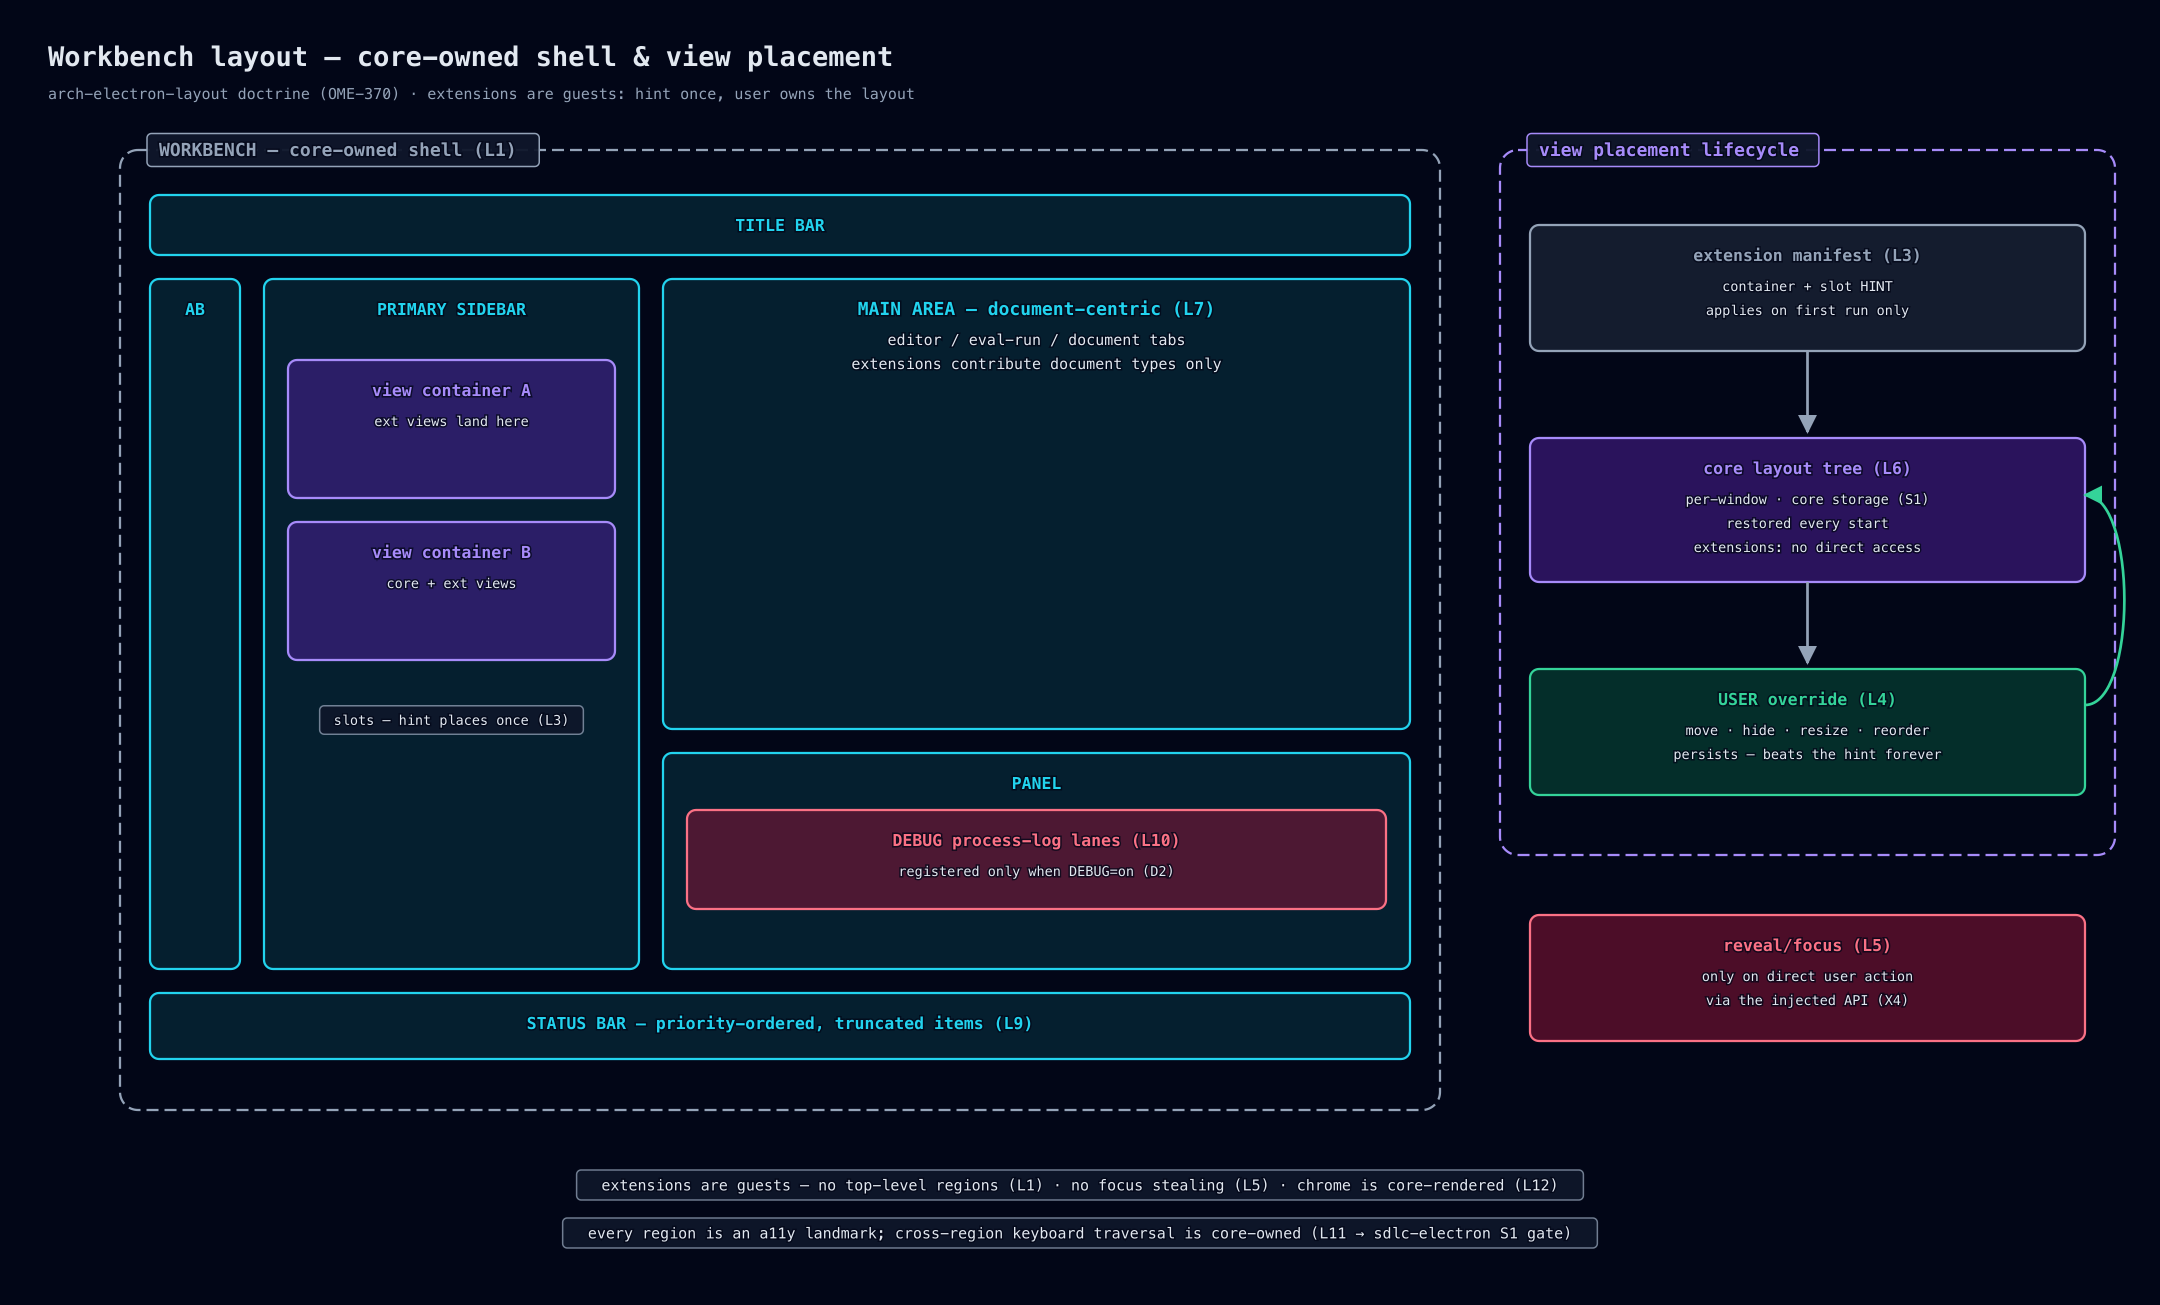
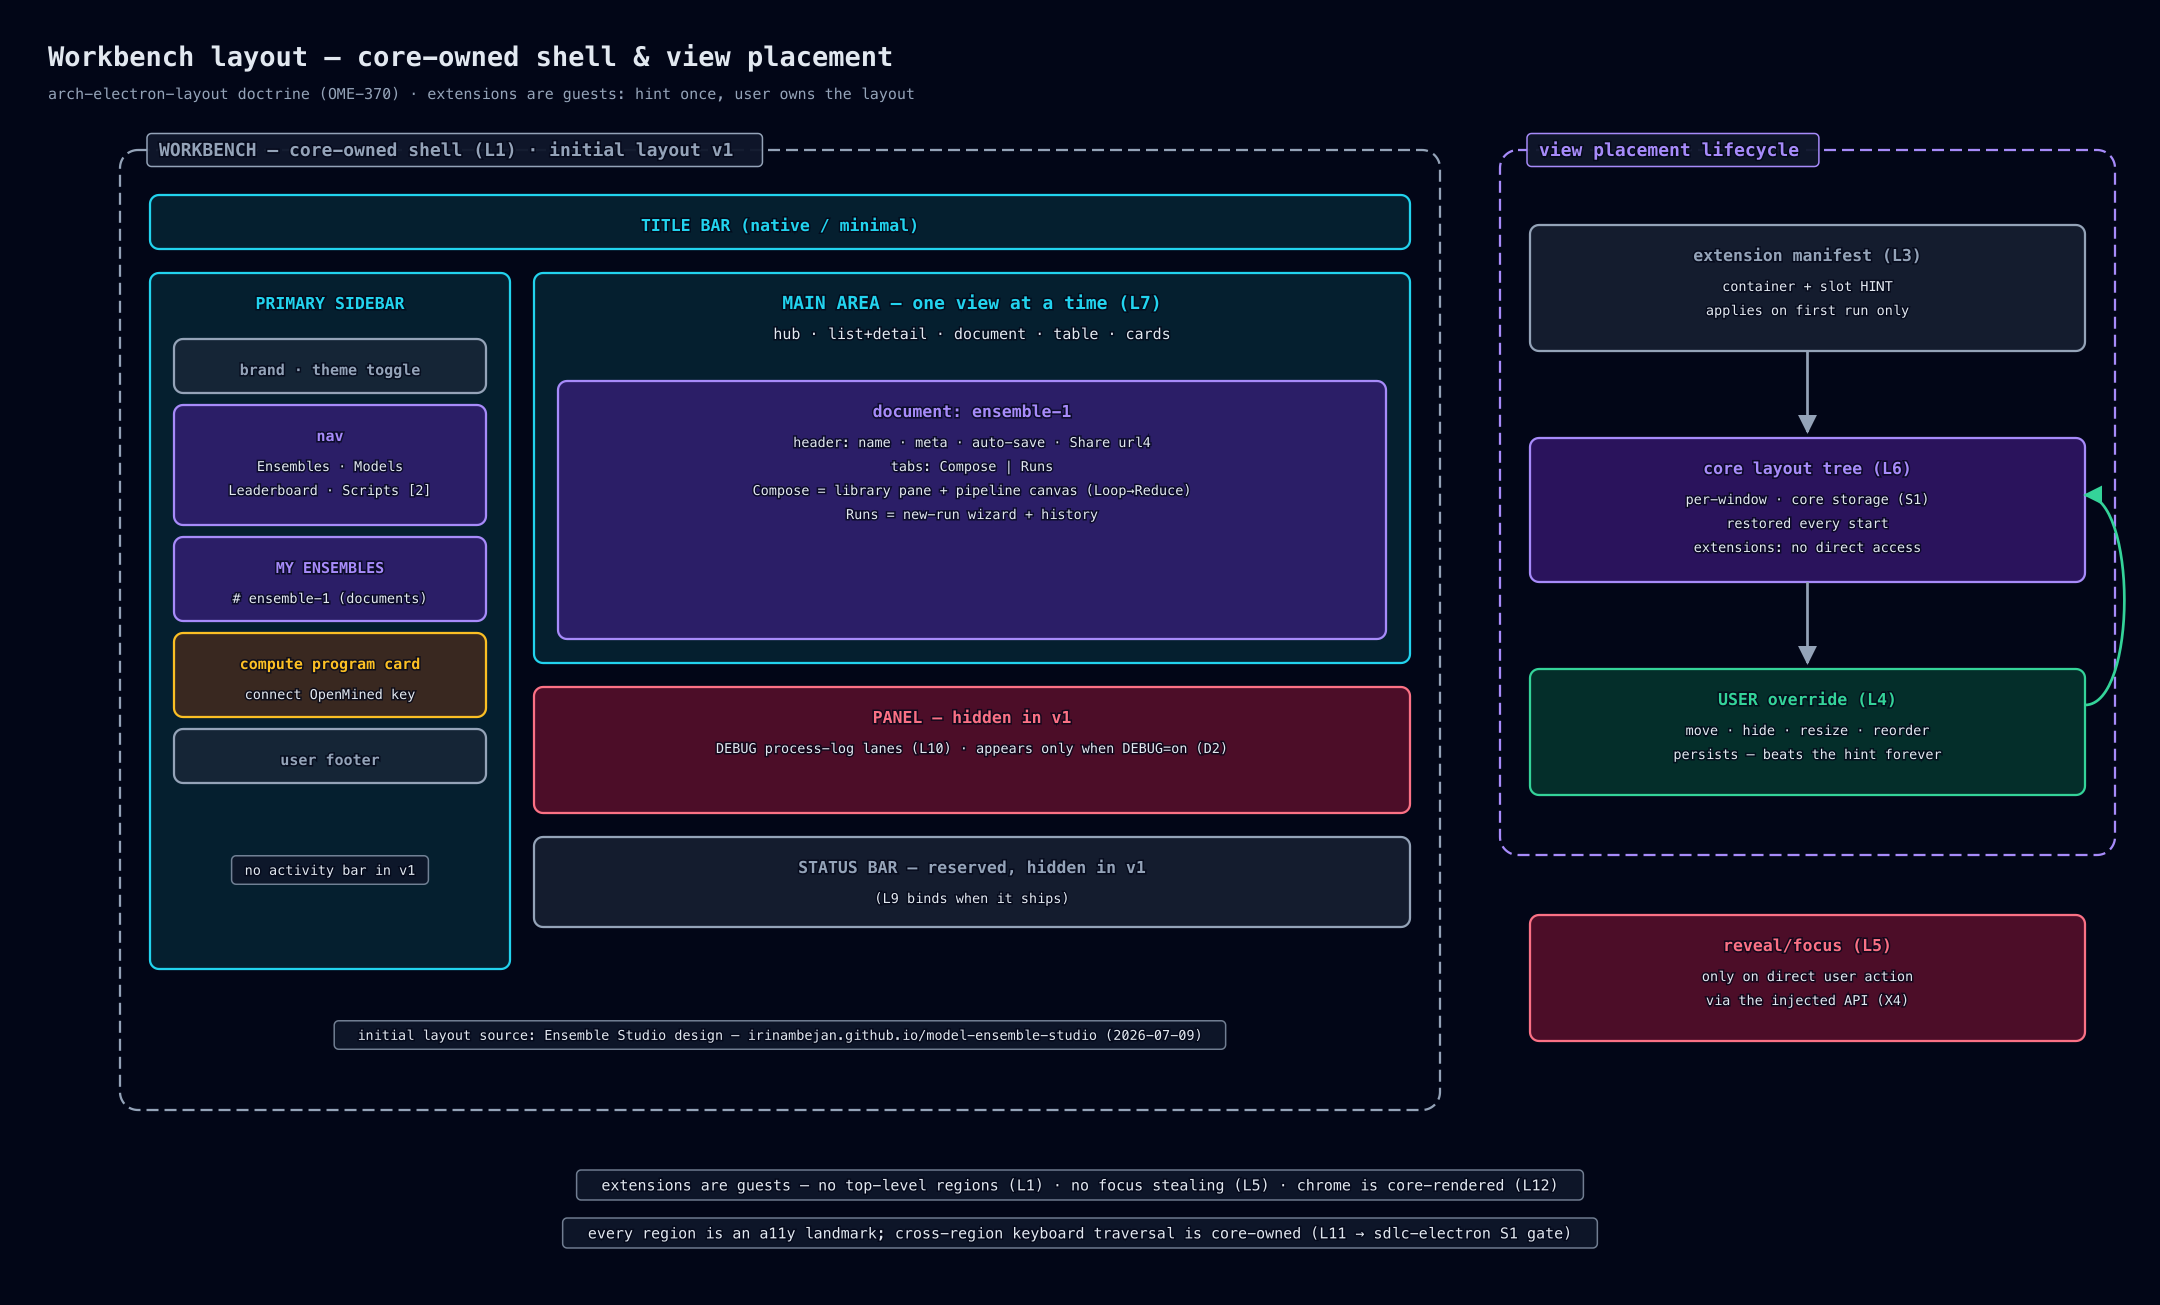
docs(repo): initial layout re-based on Ensemble Studio design
Researched irinambejan.github.io/model-ensemble-studio via Playwright:
single rich sidebar (brand/nav+badges/MY ENSEMBLES/compute card/user),
no activity bar in v1 (L1 amended, escalation path documented), five
main-area view archetypes, ensemble document = L7 document type with
internal Compose|Runs tabs, panel + status bar hidden in v1. ASCII and
SVG diagrams reworked; research screenshots in .docs (gitignored).

Refs: OME-370

Changed region(s): [[0.062, 0.1533, 0.6514, 0.8276], [0.2481, 0.092, 0.3412, 0.1226]]

diff --git a/.claude/skills/arch-electron-layout/SKILL.md b/.claude/skills/arch-electron-layout/SKILL.md
@@ -22,30 +22,62 @@ rules referenced below), `screamingface-design` owns every visual/brand decision
 structure. Build-time work runs under `sdlc-electron` (its a11y gate S1 consumes L11).
 Deviating from an invariant is a Confidence-Gate decision: STOP and ask the owner.
 
-## The shell
+## The shell — initial layout (v1)
+
+The v1 default is based on the **Ensemble Studio** design
+(https://irinambejan.github.io/model-ensemble-studio/, researched 2026-07-09; screenshots
+in `.docs/ensemble-studio-research/`):
 
 ```
 +----------------------------------------------------------------------------+
-| TITLE BAR (custom or native — one choice per app)                          |
-+----+----------------------+------------------------------------------------+
-| AB | PRIMARY SIDEBAR      | MAIN AREA — document-centric (L7)              |
-|    |  view containers     |   editors / eval runs / documents              |
-|    |  (ext views land     |                                                |
-|    |  here via hints)     +------------------------------------------------+
-|    |                      | PANEL — tool lanes (L10: DEBUG logs)           |
-+----+----------------------+------------------------------------------------+
-| STATUS BAR — bounded, priority-ordered items (L9)                          |
-+----------------------------------------------------------------------------+
+| TITLE BAR (native chrome / minimal custom)                                 |
++------------------+---------------------------------------------------------+
+| PRIMARY SIDEBAR  | MAIN AREA — one view at a time:                         |
+|  brand + theme   |  hub · list+detail · document · table · cards           |
+|  nav: Ensembles  |                                                         |
+|   Models         |  document view: header (name · meta · Share url4)       |
+|   Leaderboard    |                 + document tabs (Compose | Runs)        |
+|   Scripts [2]    +---------------------------------------------------------+
+|  MY ENSEMBLES    | PANEL — hidden; DEBUG log lanes when DEBUG=on (L10)     |
+|  compute card    +---------------------------------------------------------+
+|  user footer     | STATUS BAR — reserved, hidden in v1 (L9)                |
++------------------+---------------------------------------------------------+
 ```
 
-AB = activity bar. Rendered diagram (SVG + PNG): `docs/diagrams/electron-workbench-layout.*`.
+Rendered diagram (SVG + PNG): `docs/diagrams/electron-workbench-layout.*`.
+
+**Initial-layout facts (from the Studio design):**
+
+- **One rich sidebar, no activity bar in v1.** The sidebar carries: brand header + theme
+  toggle · primary nav (Ensembles, Models, Leaderboard, Scripts — with count badges) ·
+  a **MY ENSEMBLES** section listing the user's ensemble documents · the subsidized-compute
+  program card (key connect) · the user identity footer. If view containers multiply beyond
+  what one sidebar holds, adding an activity bar is the escalation path — an owner decision,
+  not an extension's.
+- **The main area shows one view at a time**, navigated from the sidebar. Five view
+  archetypes: **hub** (hero + top ensembles), **list+detail** (Models: provider library
+  column + detail pane), **document** (ensemble: breadcrumb, header with name/meta/auto-save/
+  Share-url4, internal tab strip **Compose | Runs**; Compose = library pane + pipeline
+  canvas Loop→Reduce; Runs = new-run wizard + history), **table page** (Leaderboard:
+  benchmark tabs + scope filter + table), **card list** (Scripts: grouped cards with inline
+  code).
+- **The ensemble document is the app's document type** (L7): one open at a time in v1,
+  reachable via MY ENSEMBLES; each document owns its internal tab strip. A multi-document
+  tab strip in the main area is a future escalation, not v1.
+- **Panel and status bar exist in the layout model but are hidden in v1**: the panel
+  appears only as the DEBUG log-view home (L10, D2-gated); the status bar is reserved
+  (L9 binds whenever it ships). The Studio design has neither — don't add visible chrome
+  the design doesn't call for.
+- Visual styling (colors, type, density, dark mode) is `screamingface-design` territory —
+  this section binds structure only.
 
 ## Invariants (L)
 
-- **L1 — The shell is core-owned.** Exactly these regions: title bar, activity bar,
-  primary sidebar, main area, panel, status bar. Extensions never add top-level regions,
-  floating/always-on-top surfaces, or windows. *One coherent layout model; window creation
-  is a privileged capability (arch-electron T3).*
+- **L1 — The shell is core-owned.** Exactly these regions: title bar, primary sidebar,
+  main area, panel, status bar (activity bar: deferred — absent in v1, see initial layout).
+  Extensions never add top-level regions, floating/always-on-top surfaces, or windows.
+  *One coherent layout model; window creation is a privileged capability (arch-electron
+  T3).*
 - **L2 — Views live in view containers; containers dock into slots.** A contributed view
   belongs to a view container (its own or a shared one); containers dock into the sidebar
   or panel. Both are declared in the manifest (arch-electron X1) — rendered with zero
@@ -61,10 +93,10 @@ AB = activity bar. Rendered diagram (SVG + PNG): `docs/diagrams/electron-workben
 - **L6 — Layout state is a core-owned tree.** Visibility, order, sizes, and dock positions
   persist per window in core storage (arch-electron S1). Extensions never read or write
   layout state directly — reveal/focus of their OWN views via the API is the whole surface.
-- **L7 — The main area is document-centric.** It hosts primary work surfaces (editors,
-  eval runs, documents) as tabs; tool/auxiliary views belong to the sidebar or panel. An
-  extension reaches the main area only by contributing a document/editor type — never by
-  docking a tool view there.
+- **L7 — The main area is document-centric.** It hosts primary work surfaces — in v1 the
+  **ensemble document** (one at a time, with its internal Compose | Runs tab strip); tool/
+  auxiliary views belong to the sidebar or panel. An extension reaches the main area only
+  by contributing a document/editor type — never by docking a tool view there.
 - **L8 — One layout tree per window.** Multi-window means independent trees; **no
   cross-window docking in v1** (YAGNI). Revisiting this is an owner decision.
 - **L9 — Status-bar contributions are bounded.** Priority-ordered items with core-imposed

diff --git a/docs/work/2026-07-09-OME-370-workbench-layout-skill.md b/docs/work/2026-07-09-OME-370-workbench-layout-skill.md
@@ -49,4 +49,9 @@ touched — lane may not even trigger).
   code touched → app gate runners not applicable.
 - **Deviations:** stacked branch (base = OME-368 branch) because the skill cross-references
   arch-electron content not yet on main; PR must be retargeted/rebased if #378 squash-merges
-  first — noted in the PR body.
+  first — noted in the PR body. Mid-review owner request: initial layout re-based on the
+  **Ensemble Studio** design (irinambejan.github.io/model-ensemble-studio), researched live
+  via Playwright (screenshots → `.docs/ensemble-studio-research/`); consequences: activity
+  bar deferred out of v1 (L1 amended), single rich sidebar (brand/nav/MY ENSEMBLES/compute
+  card/user), five main-area view archetypes, ensemble document = the L7 document type,
+  panel + status bar hidden in v1; ASCII + SVG diagrams reworked.

diff --git a/docs/tasks/2026-07-09-workbench-layout-skill.md b/docs/tasks/2026-07-09-workbench-layout-skill.md
@@ -15,4 +15,7 @@ containers docked into slots, manifest placement = hint / user override wins and
 no focus stealing, core-owned per-window layout tree, document-centric main area (L7 veto
 flag), no cross-window docking in v1 (L8 veto flag). Companion layer between arch-electron
 and screamingface-design. Fast-track (rule 3 waived, same pattern as OME-368); stacked PR
-on the OME-368 branch.
+on the OME-368 branch. Initial layout (v1) based on the Ensemble Studio design
+(irinambejan.github.io/model-ensemble-studio): single rich sidebar, no activity bar,
+five main-area view archetypes, ensemble document with Compose|Runs tabs, panel/status
+bar hidden in v1.
